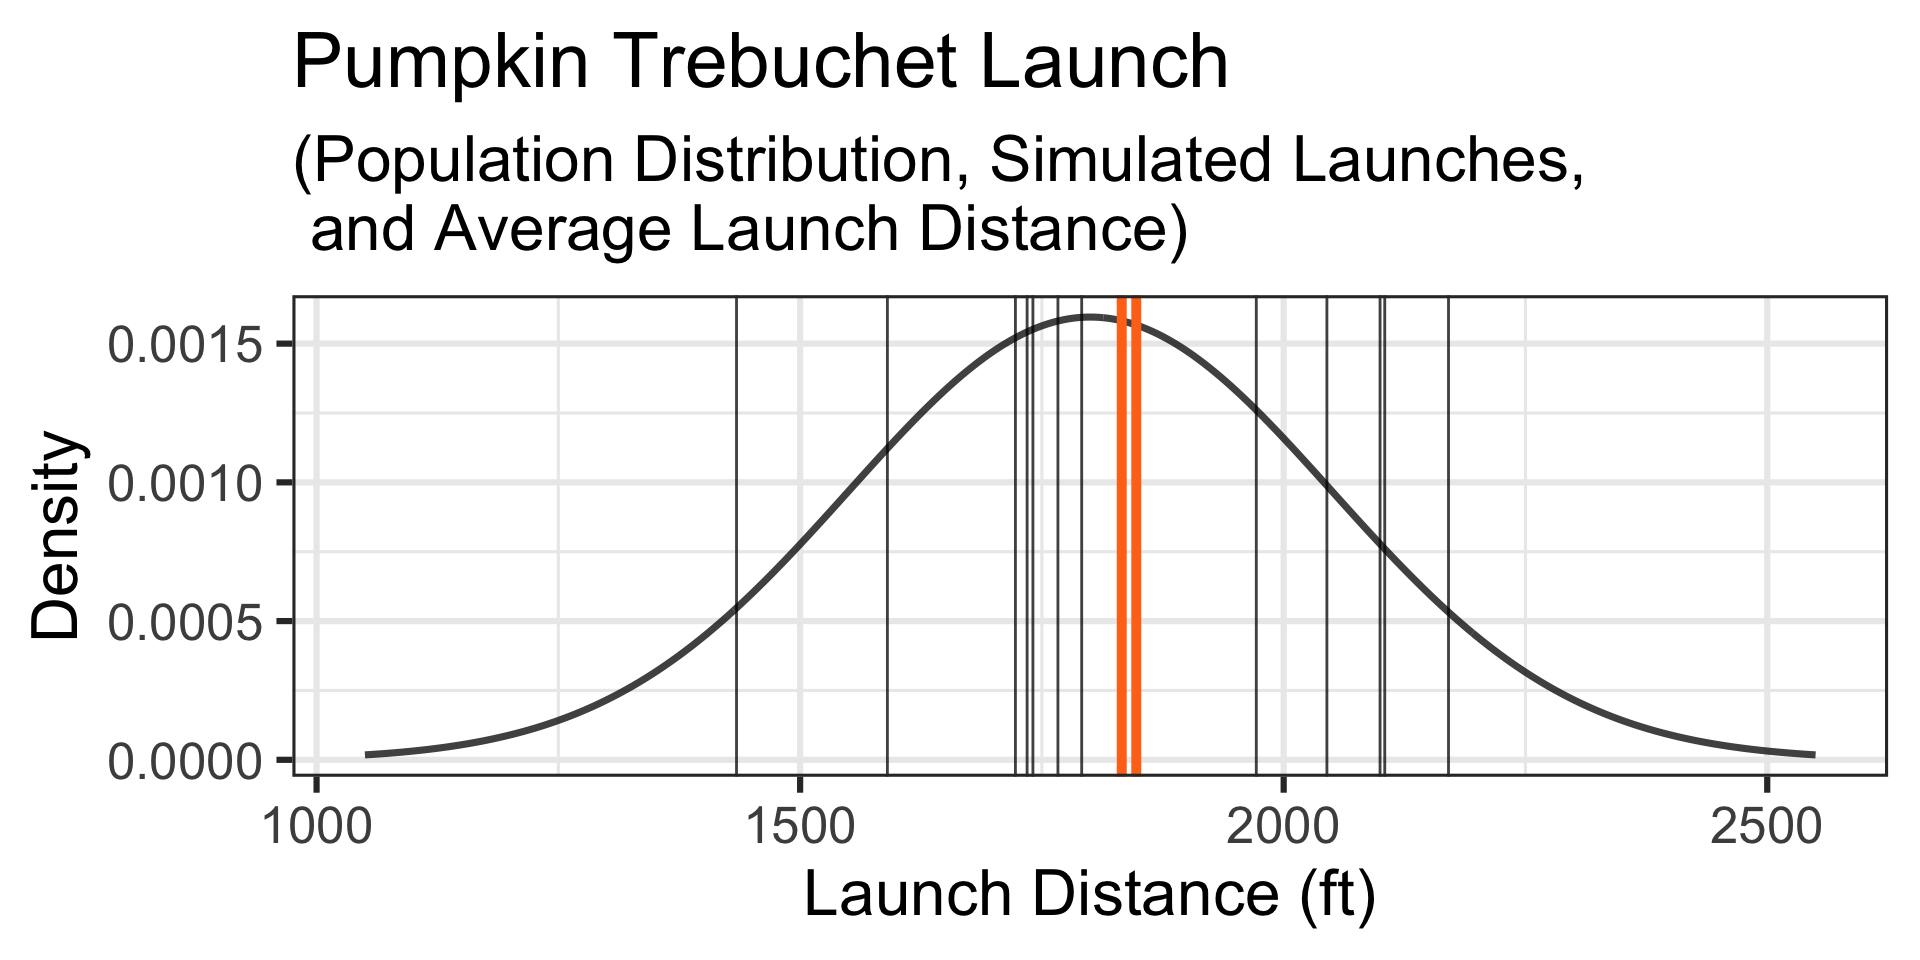
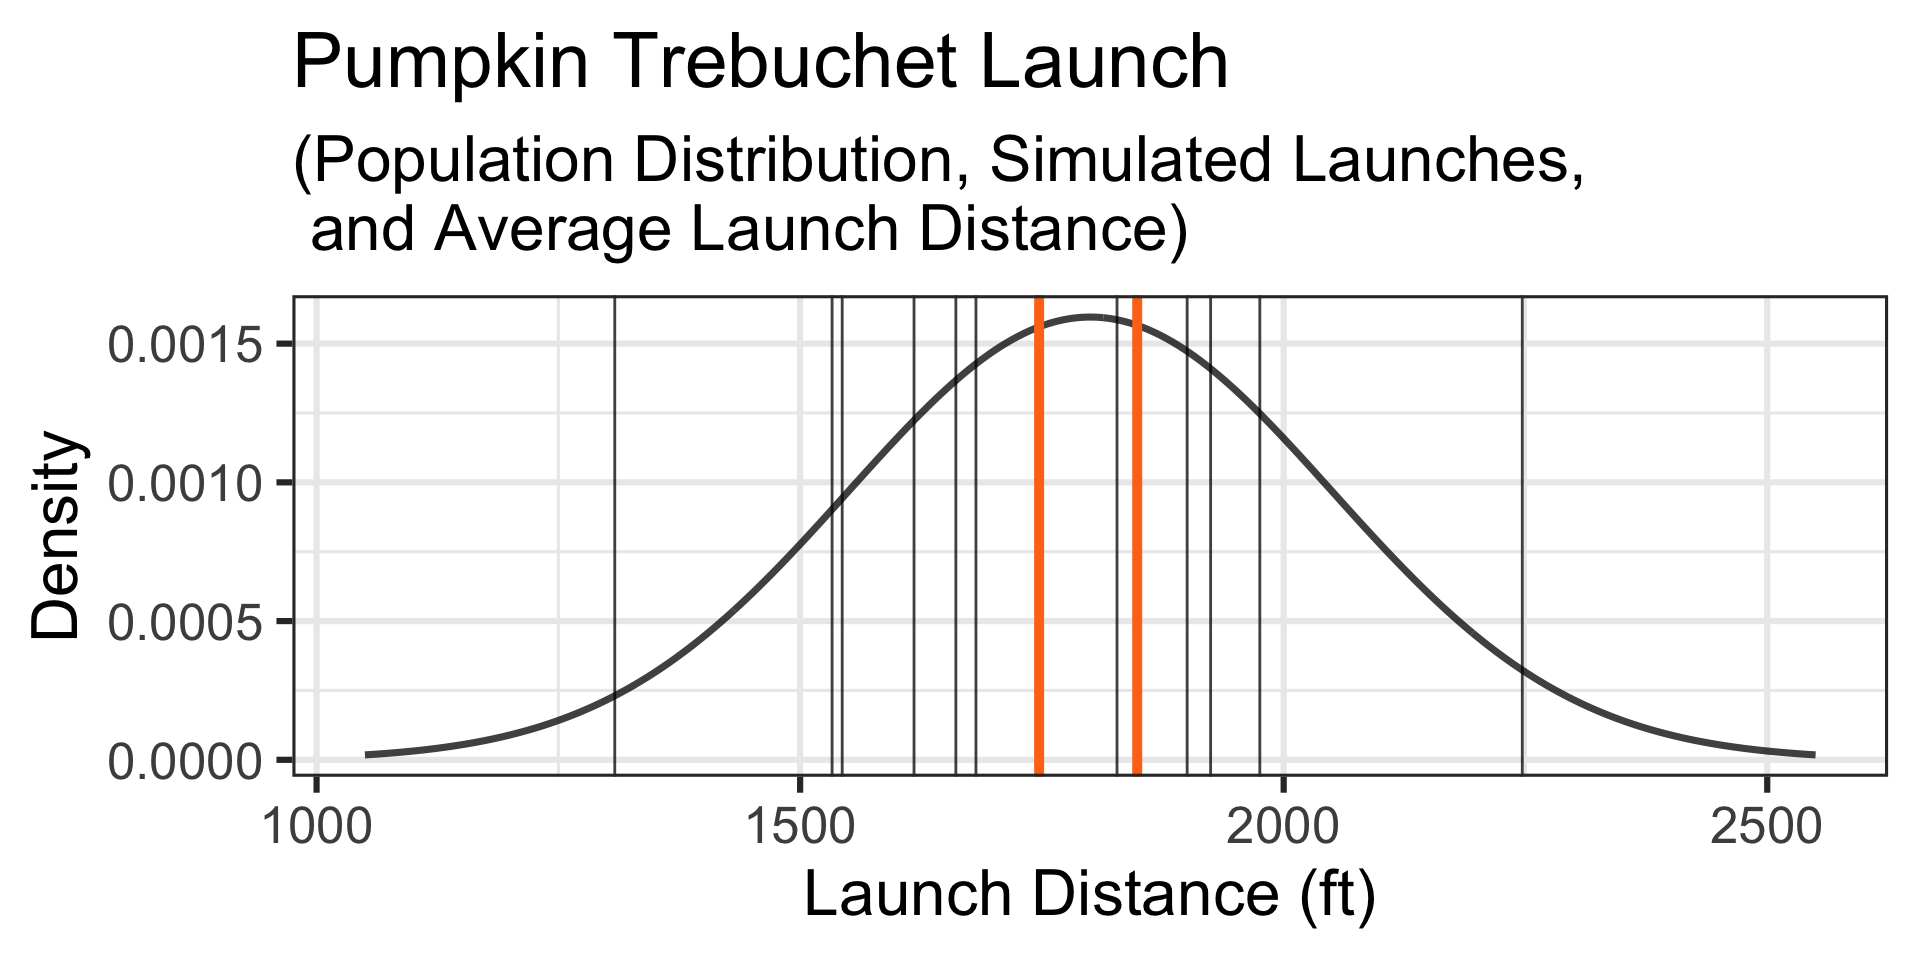
I set a seed this time (1)

Changed region(s): [[0.4375, 0.3125, 0.5938, 0.8125], [0.625, 0.3125, 0.6562, 0.8125]]

diff --git a/IntroInference_Slides.html b/IntroInference_Slides.html
@@ -947,7 +947,138 @@ We can use the normal distribution as a model for the Sampling Distribution as l
 </section>
 <section id="back-to-pumpkin-launching" class="slide level2">
 <h2>Back to Pumpkin Launching!</h2>
-<p><strong>Reminder:</strong> The distances traveled by a 10lb pumpkin launched via a trebuchet are approximately normally distributed with a mean of 1800ft and a standard deviation of 250ft.</p>
+<div class="fragment">
+<p><strong>Reminder:</strong> The distances traveled by a 10lb pumpkin launched via a trebuchet are approximately normally distributed with a mean of 1800ft and a standard deviation of 250ft. A particular team feels that their pumpkin launching trebuchet is much better than average. On a typical day (it’s not extra windy), then team launches a random selection of twelve 10lb pumpkins. Their average launch distance is 2,028ft. What is the probability that a random selection of twelve launches averages 2,028ft or further?</p>
+<ol type="1">
+<li class="fragment"><p>Note that the population distribution of launch distances is not skewed (it is approximately normal).</p></li>
+<li class="fragment"><p>This means that we have no skew to overcome, and our sampling distribution will be approximately normal.</p></li>
+<li class="fragment"><p>Launch distance is a numerical variable, and so the sampling distribution for average launch distances of 12 pumpkins will be <span class="math inline">\(\displaystyle{N\left(\mu, S_E = \sigma/\sqrt{n}\right)}\)</span>, which in this case is <span class="math inline">\(\displaystyle{N\left(\mu = 1800, S_E = 250/\sqrt{12}\right)}\)</span></p></li>
+</ol>
+</div>
+<div class="fragment">
+<div class="columns">
+<div class="column" style="width:50%;">
+<div class="cell">
+<div class="cell-output-display">
+<div>
+<figure>
+<p><img data-src="IntroInference_Slides_files/figure-revealjs/unnamed-chunk-25-1.png" width="960"></p>
+</figure>
+</div>
+</div>
+</div>
+</div><div class="column" style="width:50%;">
+
+</div>
+</div>
+</div>
+</section>
+<section id="back-to-pumpkin-launching-1" class="slide level2">
+<h2>Back to Pumpkin Launching!</h2>
+<p><strong>Reminder:</strong> The distances traveled by a 10lb pumpkin launched via a trebuchet are approximately normally distributed with a mean of 1800ft and a standard deviation of 250ft. A particular team feels that their pumpkin launching trebuchet is much better than average. On a typical day (it’s not extra windy), then team launches a random selection of twelve 10lb pumpkins. Their average launch distance is 2,028ft. What is the probability that a random selection of twelve launches averages 2,028ft or further?</p>
+<div>
+<ol type="1">
+<li><p>Note that the population distribution of launch distances is not skewed (it is approximately normal).</p></li>
+<li><p>This means that we have no skew to overcome, and our sampling distribution will be approximately normal.</p></li>
+<li><p>Launch distance is a numerical variable, and so the sampling distribution for average launch distances of 12 pumpkins will be <span class="math inline">\(\displaystyle{N\left(\mu, S_E = \sigma/\sqrt{n}\right)}\)</span>, which in this case is <span class="math inline">\(\displaystyle{N\left(\mu = 1800, S_E = 250/\sqrt{12}\right)}\)</span></p></li>
+</ol>
+</div>
+<div class="columns">
+<div class="column" style="width:50%;">
+<div class="cell">
+<div class="cell-output-display">
+<div>
+<figure>
+<p><img data-src="IntroInference_Slides_files/figure-revealjs/unnamed-chunk-26-1.png" width="960"></p>
+</figure>
+</div>
+</div>
+</div>
+</div><div class="column" style="width:50%;">
+
+</div>
+</div>
+</section>
+<section id="back-to-pumpkin-launching-2" class="slide level2">
+<h2>Back to Pumpkin Launching!</h2>
+<p><strong>Reminder:</strong> The distances traveled by a 10lb pumpkin launched via a trebuchet are approximately normally distributed with a mean of 1800ft and a standard deviation of 250ft. A particular team feels that their pumpkin launching trebuchet is much better than average. On a typical day (it’s not extra windy), then team launches a random selection of twelve 10lb pumpkins. Their average launch distance is 2,028ft. What is the probability that a random selection of twelve launches averages 2,028ft or further?</p>
+<div>
+<ol type="1">
+<li><p>Note that the population distribution of launch distances is not skewed (it is approximately normal).</p></li>
+<li><p>This means that we have no skew to overcome, and our sampling distribution will be approximately normal.</p></li>
+<li><p>Launch distance is a numerical variable, and so the sampling distribution for average launch distances of 12 pumpkins will be <span class="math inline">\(\displaystyle{N\left(\mu, S_E = \sigma/\sqrt{n}\right)}\)</span>, which in this case is <span class="math inline">\(\displaystyle{N\left(\mu = 1800, S_E = 250/\sqrt{12}\right)}\)</span></p></li>
+</ol>
+</div>
+<div class="columns">
+<div class="column" style="width:50%;">
+<div class="cell">
+<div class="cell-output-display">
+<div>
+<figure>
+<p><img data-src="IntroInference_Slides_files/figure-revealjs/unnamed-chunk-27-1.png" width="960"></p>
+</figure>
+</div>
+</div>
+</div>
+</div><div class="column" style="width:50%;">
+<p>The probability of an average launch distance of at least 2,028ft is…</p>
+</div>
+</div>
+</section>
+<section id="back-to-pumpkin-launching-3" class="slide level2">
+<h2>Back to Pumpkin Launching!</h2>
+<p><strong>Reminder:</strong> The distances traveled by a 10lb pumpkin launched via a trebuchet are approximately normally distributed with a mean of 1800ft and a standard deviation of 250ft. A particular team feels that their pumpkin launching trebuchet is much better than average. On a typical day (it’s not extra windy), then team launches a random selection of twelve 10lb pumpkins. Their average launch distance is 2,028ft. What is the probability that a random selection of twelve launches averages 2,028ft or further?</p>
+<div>
+<ol type="1">
+<li><p>Note that the population distribution of launch distances is not skewed (it is approximately normal).</p></li>
+<li><p>This means that we have no skew to overcome, and our sampling distribution will be approximately normal.</p></li>
+<li><p>Launch distance is a numerical variable, and so the sampling distribution for average launch distances of 12 pumpkins will be <span class="math inline">\(\displaystyle{N\left(\mu, S_E = \sigma/\sqrt{n}\right)}\)</span>, which in this case is <span class="math inline">\(\displaystyle{N\left(\mu = 1800, S_E = 250/\sqrt{12}\right)}\)</span></p></li>
+</ol>
+</div>
+<div class="columns">
+<div class="column" style="width:50%;">
+<div class="cell">
+<div class="cell-output-display">
+<div>
+<figure>
+<p><img data-src="IntroInference_Slides_files/figure-revealjs/unnamed-chunk-28-1.png" width="960"></p>
+</figure>
+</div>
+</div>
+</div>
+</div><div class="column" style="width:50%;">
+<p>The probability of an average launch distance of at least 2,028ft is…</p>
+<p><code>1 - pnorm(2028, 1800, 250/sqrt(12))</code> <span class="math inline">\(\approx\)</span> 0.0008</p>
+</div>
+</div>
+</section>
+<section id="back-to-pumpkin-launching-4" class="slide level2">
+<h2>Back to Pumpkin Launching!</h2>
+<p><strong>Reminder:</strong> The distances traveled by a 10lb pumpkin launched via a trebuchet are approximately normally distributed with a mean of 1800ft and a standard deviation of 250ft. A particular team feels that their pumpkin launching trebuchet is much better than average. On a typical day (it’s not extra windy), then team launches a random selection of twelve 10lb pumpkins. Their average launch distance is 2,028ft. What is the probability that a random selection of twelve launches averages 2,028ft or further?</p>
+<div>
+<ol type="1">
+<li><p>Note that the population distribution of launch distances is not skewed (it is approximately normal).</p></li>
+<li><p>This means that we have no skew to overcome, and our sampling distribution will be approximately normal.</p></li>
+<li><p>Launch distance is a numerical variable, and so the sampling distribution for average launch distances of 12 pumpkins will be <span class="math inline">\(\displaystyle{N\left(\mu, S_E = \sigma/\sqrt{n}\right)}\)</span>, which in this case is <span class="math inline">\(\displaystyle{N\left(\mu = 1800, S_E = 250/\sqrt{12}\right)}\)</span></p></li>
+</ol>
+</div>
+<div class="columns">
+<div class="column" style="width:50%;">
+<div class="cell">
+<div class="cell-output-display">
+<div>
+<figure>
+<p><img data-src="IntroInference_Slides_files/figure-revealjs/unnamed-chunk-29-1.png" width="960"></p>
+</figure>
+</div>
+</div>
+</div>
+</div><div class="column" style="width:50%;">
+<p>The probability of an average launch distance of at least 2,028ft is…</p>
+<p><code>1 - pnorm(2028, 1800, 250/sqrt(12))</code> <span class="math inline">\(\approx\)</span> 0.0008</p>
+<p>Their trebuchet is likely much stronger than the average trebuchet!</p>
+</div>
+</div>
 </section>
 <section id="next-time" class="slide level2">
 <h2>Next Time…</h2>
